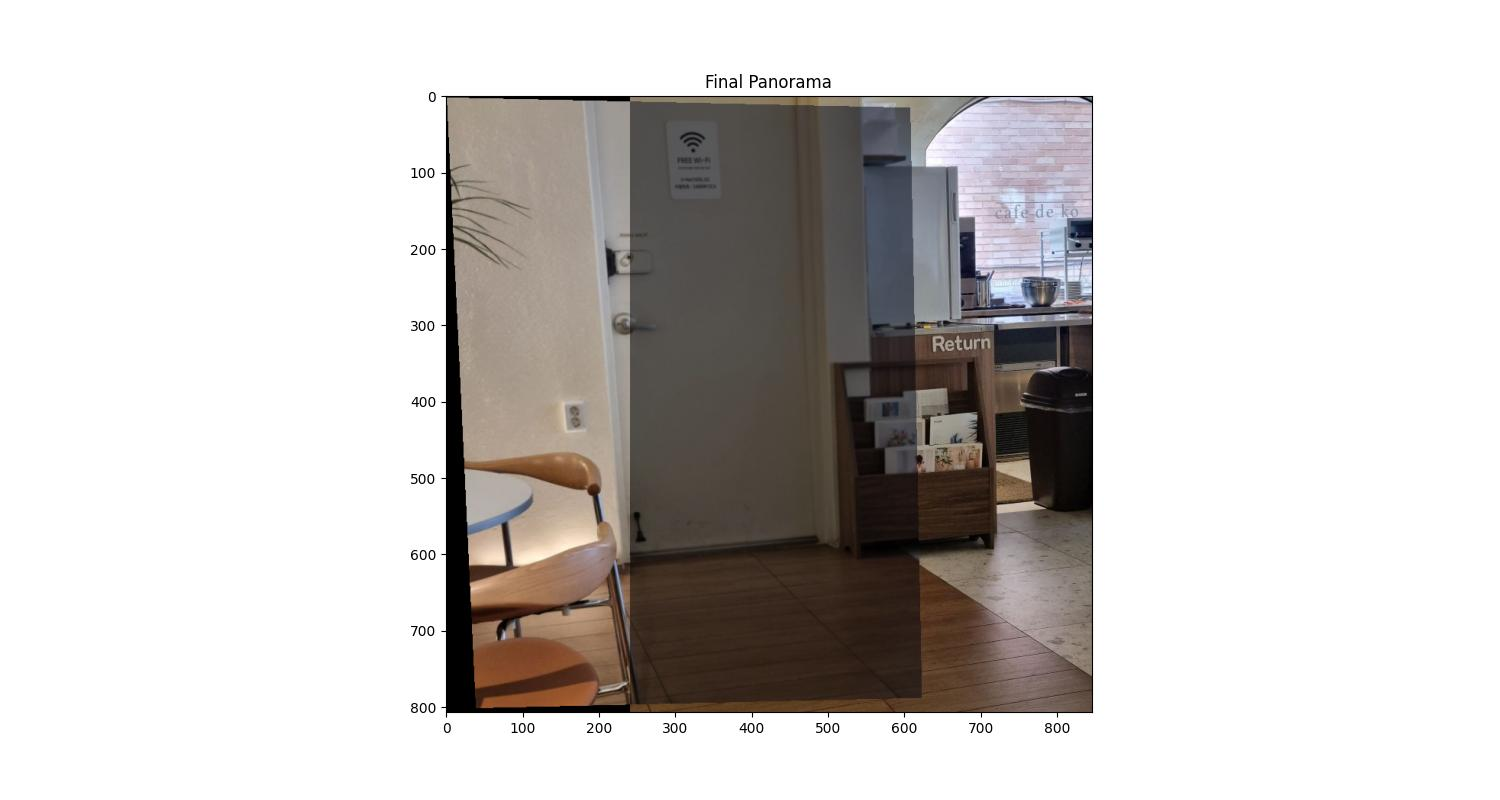
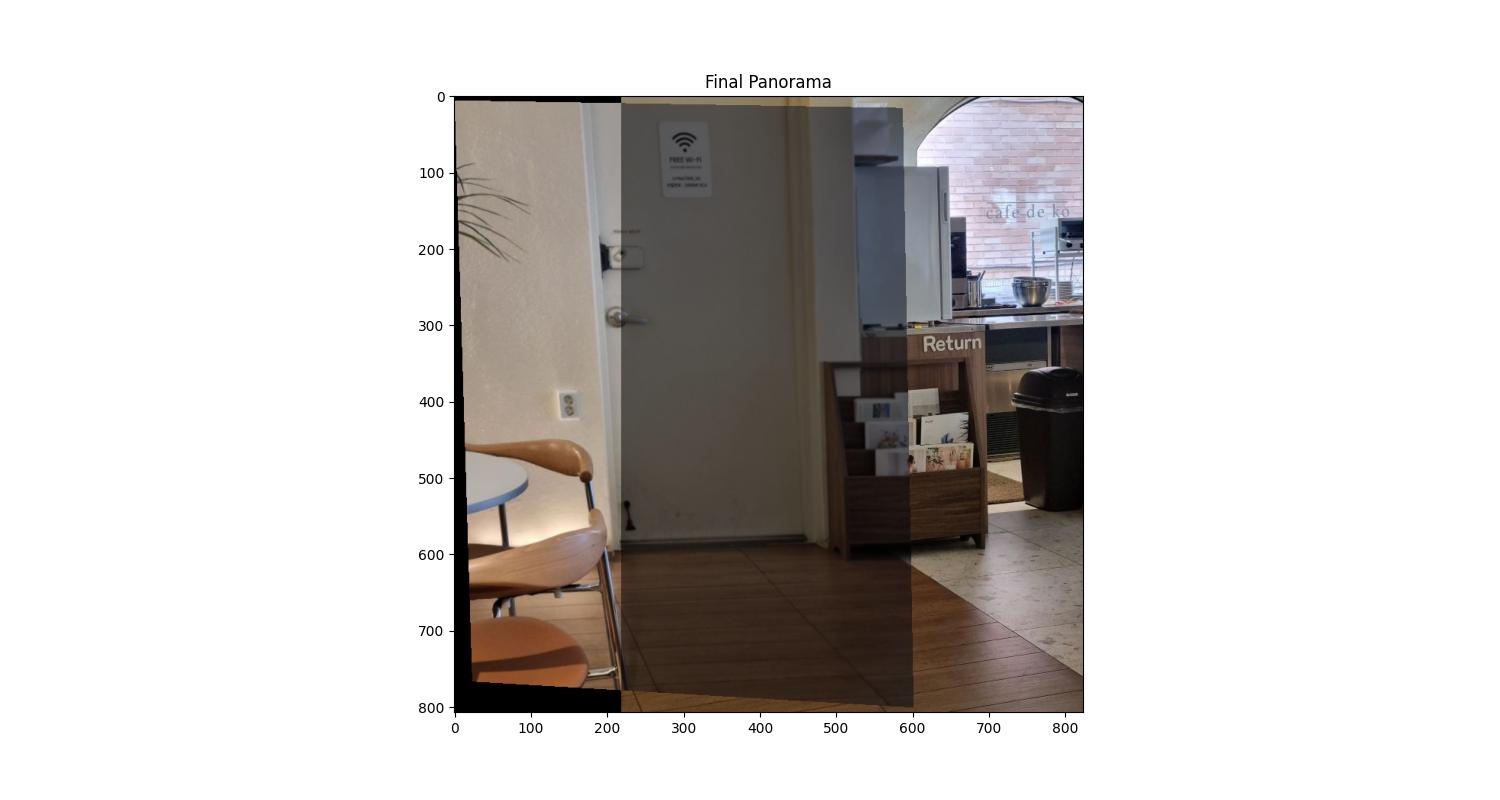
2장 파노라마 성공

Changed region(s): [[0.276, 0.0938, 0.736, 0.9375], [0.644, 0.9062, 0.6747, 0.9375], [0.4907, 0.9062, 0.5213, 0.9375]]

diff --git a/v1/panorama.py b/v1/panorama.py
@@ -224,70 +224,6 @@ def find_correspondences(image1: np.ndarray, image2: np.ndarray,
     return matches
 
 
-def find_nearest_neighbors(descriptor, descriptor_set, k=2):  # k를 2로 변경
-    """k-최근접 이웃 찾기"""
-    if len(descriptor_set) == 0:
-        return []
-        
-    distances = []
-    for i, desc in enumerate(descriptor_set):
-        if desc.shape != descriptor.shape:
-            continue
-        dist = np.linalg.norm(descriptor - desc)
-        distances.append((i, dist))
-        
-    if not distances:
-        return []
-        
-    return sorted(distances, key=lambda x: x[1])[:k]
-
-
-def get_reliable_matches(kp1, desc1, kp2, desc2, distance_threshold=50, ratio_threshold=0.8):  # 더 엄격한 임계값
-    """신뢰할 수 있는 매칭점 찾기 (Lowe's ratio test 적용)"""
-    if len(desc1) == 0 or len(desc2) == 0:
-        return []
-        
-    reliable_points = []
-    
-    for i in range(len(kp1)):
-        if i >= len(desc1):
-            break
-            
-        nearest = find_nearest_neighbors(desc1[i], desc2)
-        if len(nearest) < 2:
-            continue
-            
-        # Lowe's ratio test
-        ratio = nearest[0][1] / nearest[1][1]
-        if ratio < ratio_threshold and nearest[0][1] < distance_threshold:
-            reliable_points.append([i, nearest])
-            
-    # 상위 50개의 매칭점만 선택
-    reliable_points.sort(key=lambda x: x[1][0][1])
-    return reliable_points[:50]
-
-
-def random_sample_matches(reliable_points, kp1, kp2, num_samples=4):
-    """무작위로 매칭점 샘플링"""
-    if len(reliable_points) < num_samples:
-        return None, None
-        
-    indices = np.random.choice(len(reliable_points), num_samples, replace=False)
-    
-    source_points = []
-    dest_points = []
-    
-    for idx in indices:
-        point_info = reliable_points[idx]
-        src_idx = point_info[0]
-        dst_idx = point_info[1][0][0]
-        
-        source_points.append(kp1[src_idx])
-        dest_points.append(kp2[dst_idx])
-        
-    return np.array(source_points), np.array(dest_points)
-
-
 def compute_homography(src_points, dst_points):
     """호모그래피 행렬 계산"""
     if len(src_points) < 4 or len(dst_points) < 4:

diff --git a/v1/main.py b/v1/main.py
@@ -3,7 +3,7 @@ from PIL import Image, ImageOps
 import matplotlib
 matplotlib.use('Agg')  # GUI 없이 이미지 저장
 import matplotlib.pyplot as plt
-from panorama import create_panorama, detect_harris_corner, find_correspondences, stitch_images
+from panorama import create_panorama, detect_harris_corner, find_correspondences
 import os
 
 def load_image(image_path):
